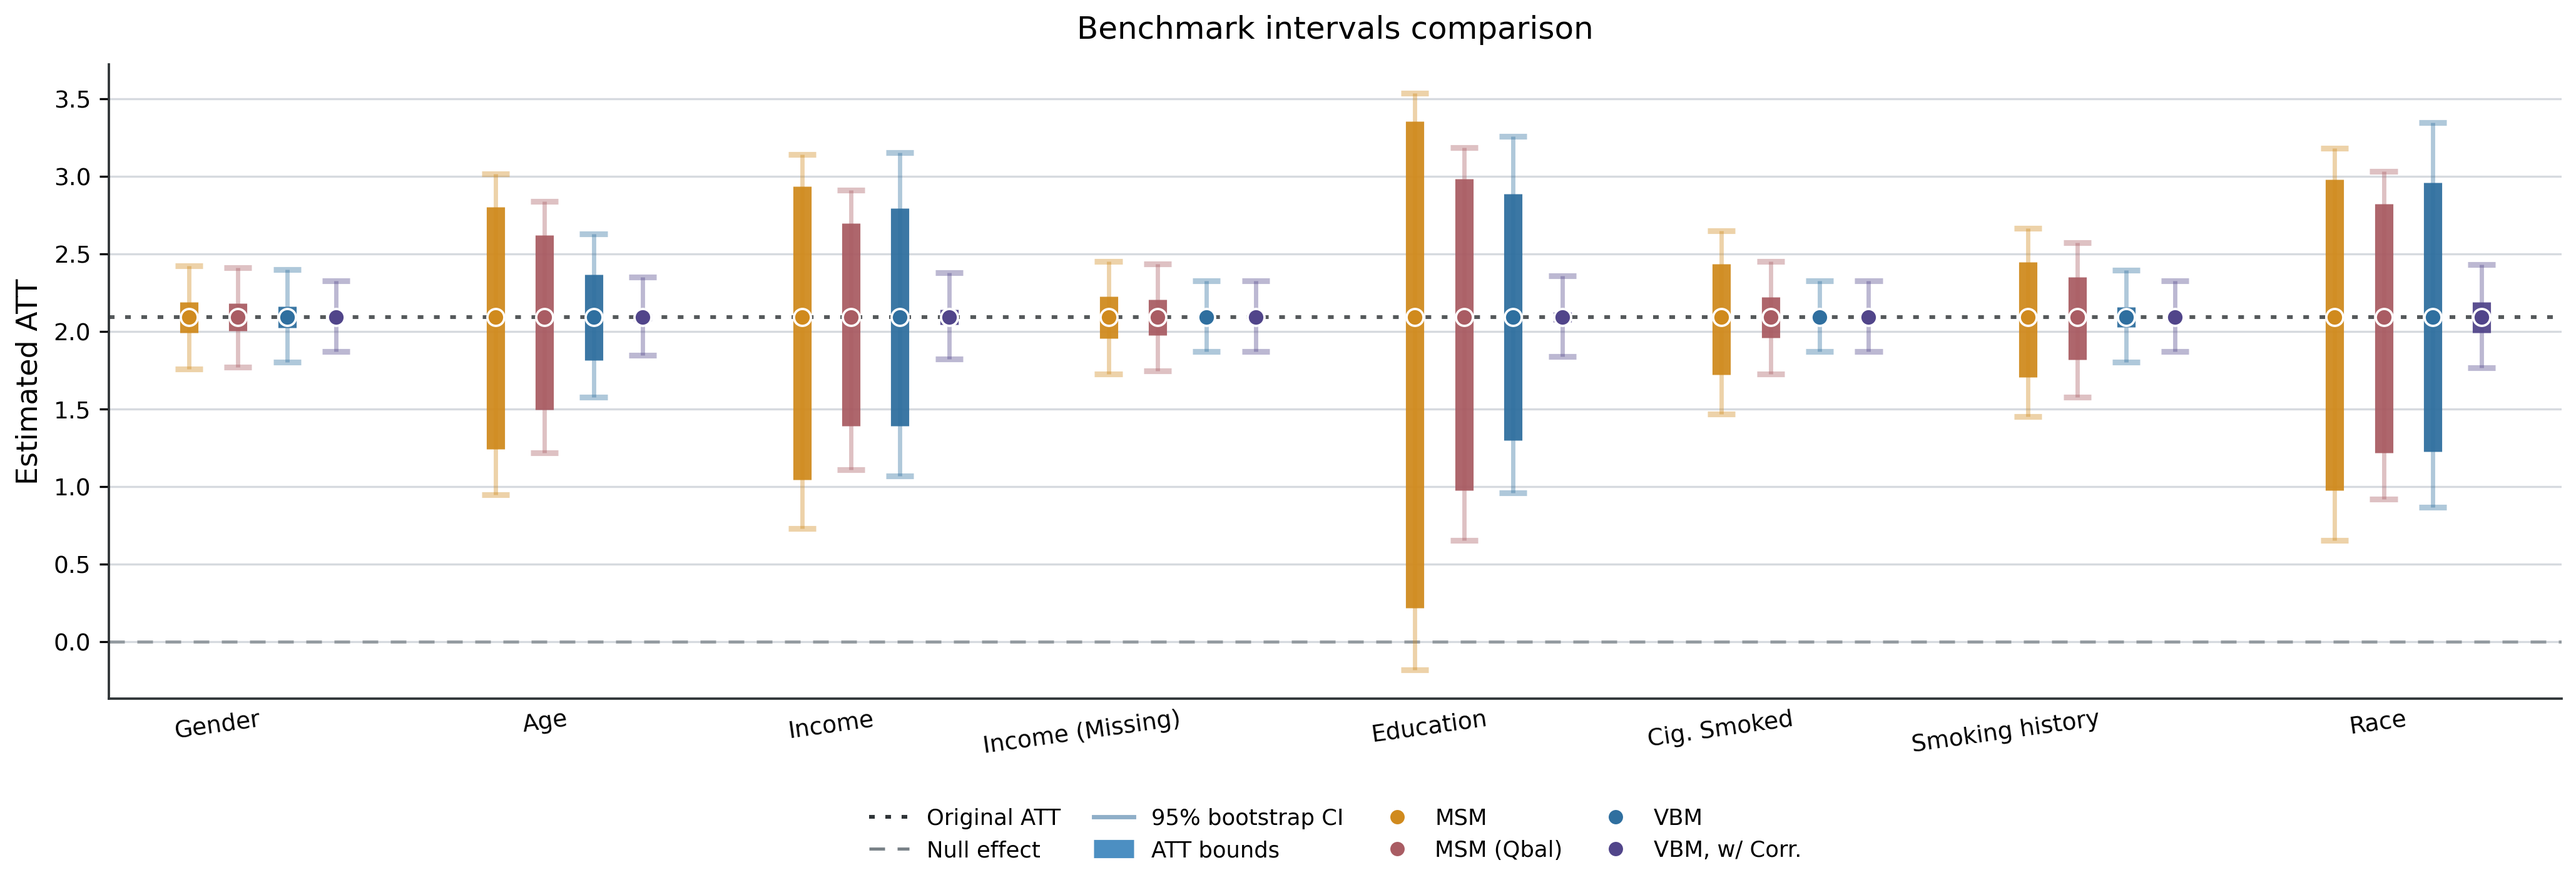
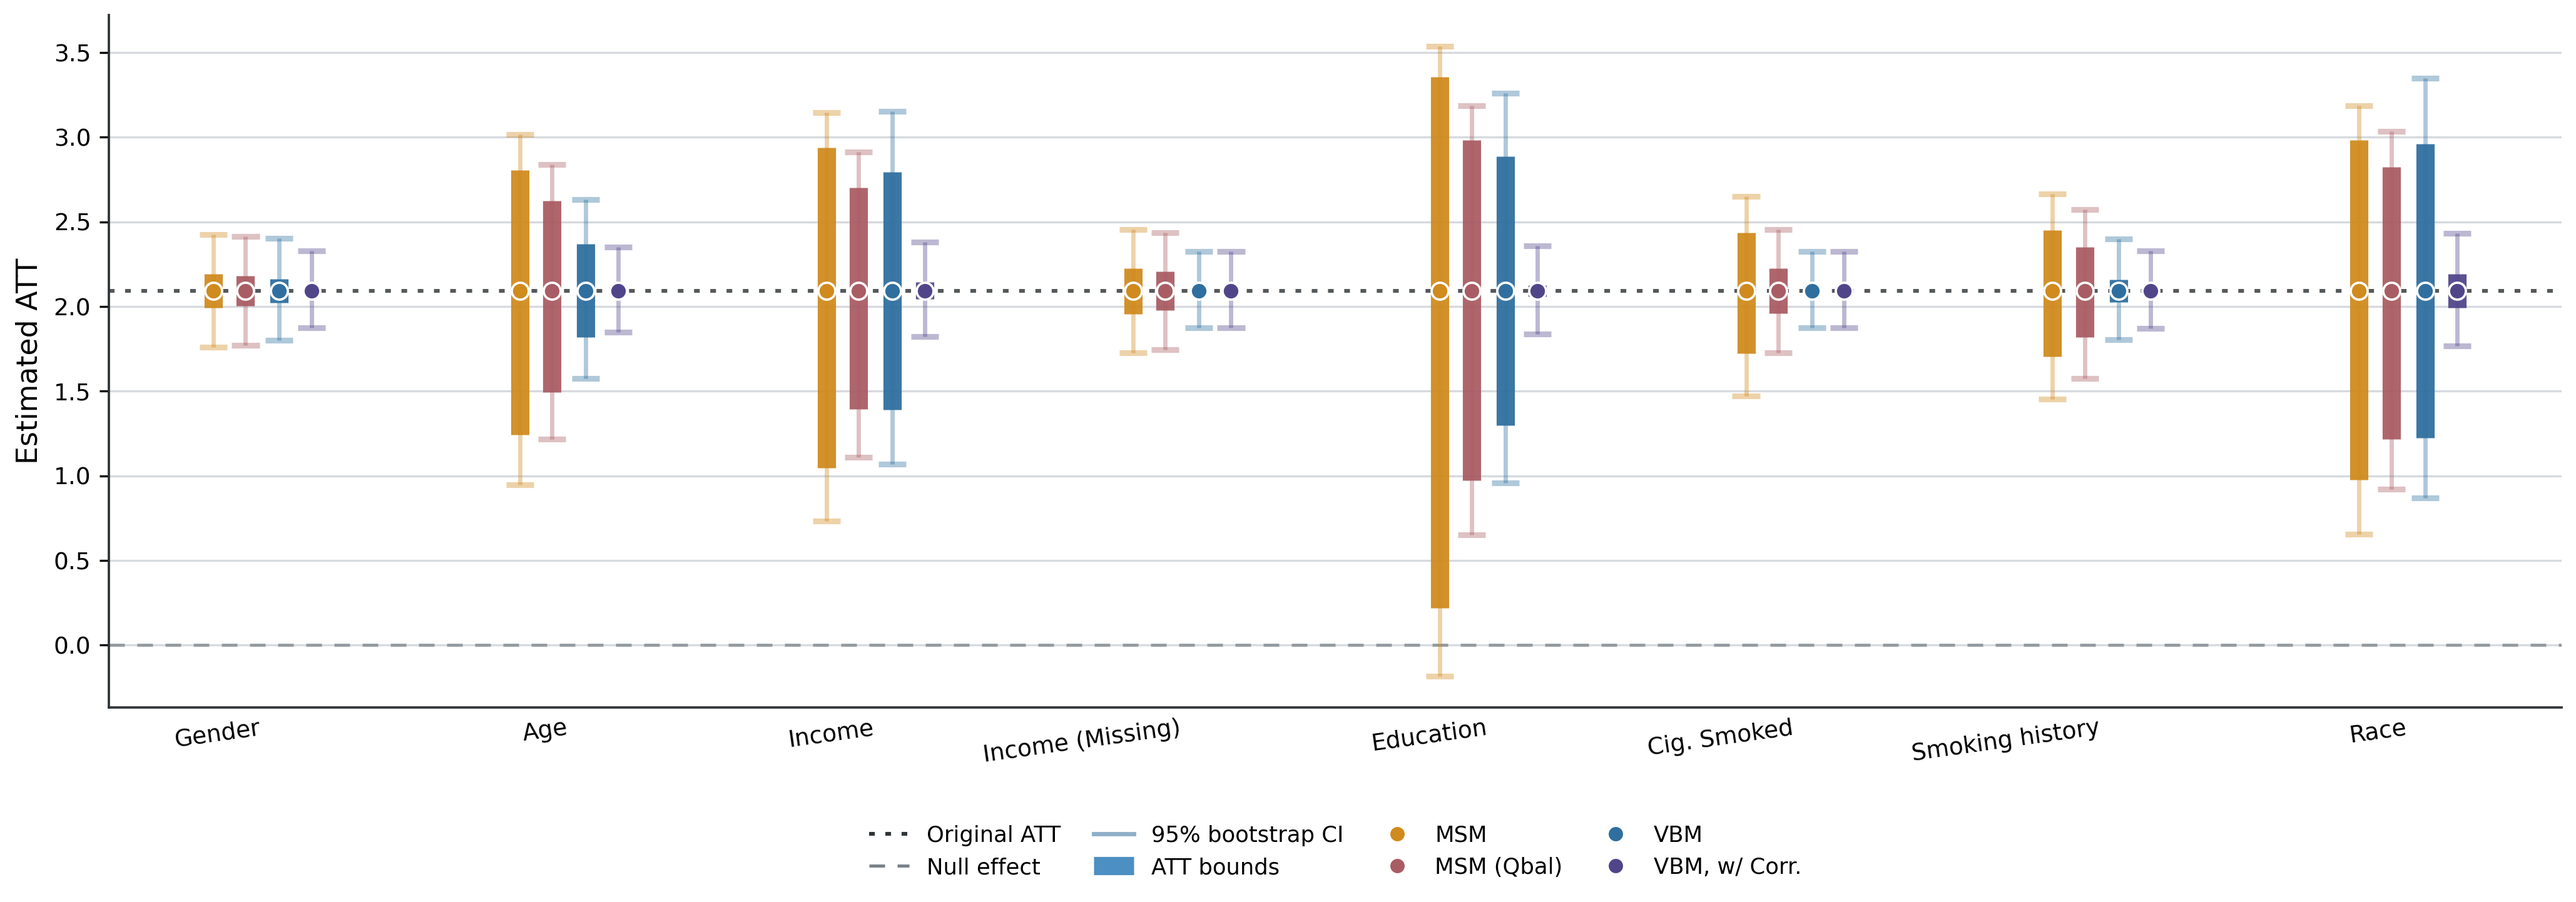
modify plot fig3

diff --git a/scripts/enhanced_plots.py b/scripts/enhanced_plots.py
@@ -560,10 +560,10 @@ def make_figure3(input_dir: Path, output_dir: Path) -> None:
 
     # Keep the four method intervals readable within each covariate group.
     offsets = {
-        "MSM": -0.24,
-        "MSM (Qbal)": -0.08,
-        "VBM": 0.08,
-        "VBM, w/ Corr.": 0.24,
+        "MSM": -0.16,
+        "MSM (Qbal)": -0.055,
+        "VBM": 0.055,
+        "VBM, w/ Corr.": 0.16,
     }
 
     # Muted, paper-like palette with enough contrast across methods.
@@ -688,12 +688,6 @@ def make_figure3(input_dir: Path, output_dir: Path) -> None:
     ax.set_ylabel("Estimated ATT", fontsize=11)
     ax.set_xlabel("")
 
-    ax.set_title(
-        "Benchmark intervals comparison",
-        fontsize=12,
-        pad=10,
-    )
-
     for spine in ["top", "right"]:
         ax.spines[spine].set_visible(False)
 
@@ -735,7 +729,7 @@ def make_figure3(input_dir: Path, output_dir: Path) -> None:
         columnspacing=1.5,
     )
 
-    fig.subplots_adjust(bottom=0.26, top=0.91, left=0.07, right=0.99)
+    fig.subplots_adjust(bottom=0.26, top=0.97, left=0.07, right=0.99)
 
     save_figures(fig, output_dir, "figure3_benchmark_paper_style")
 
